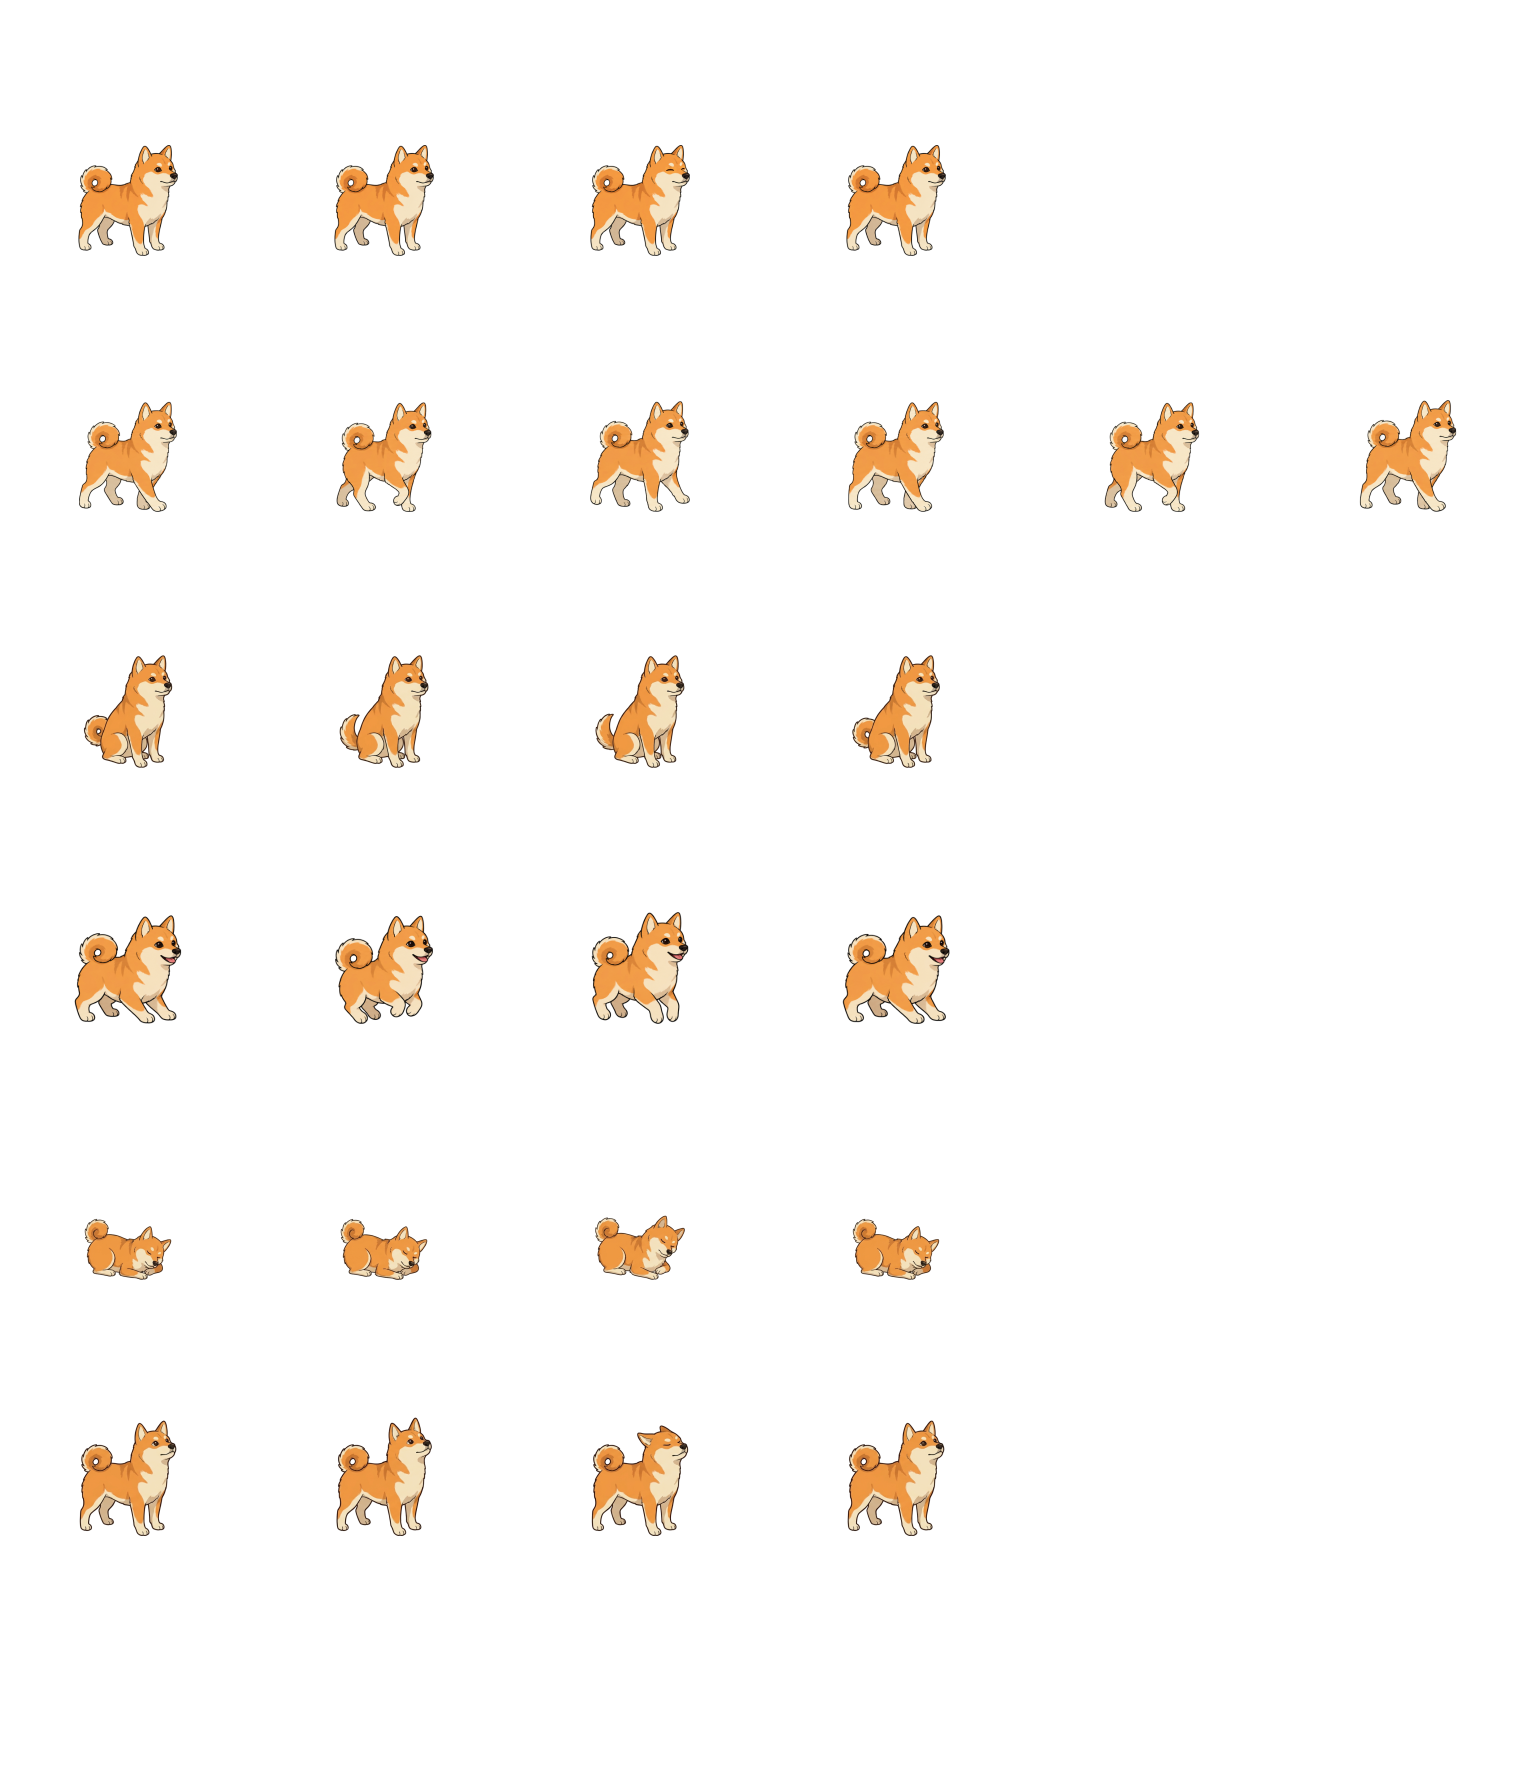
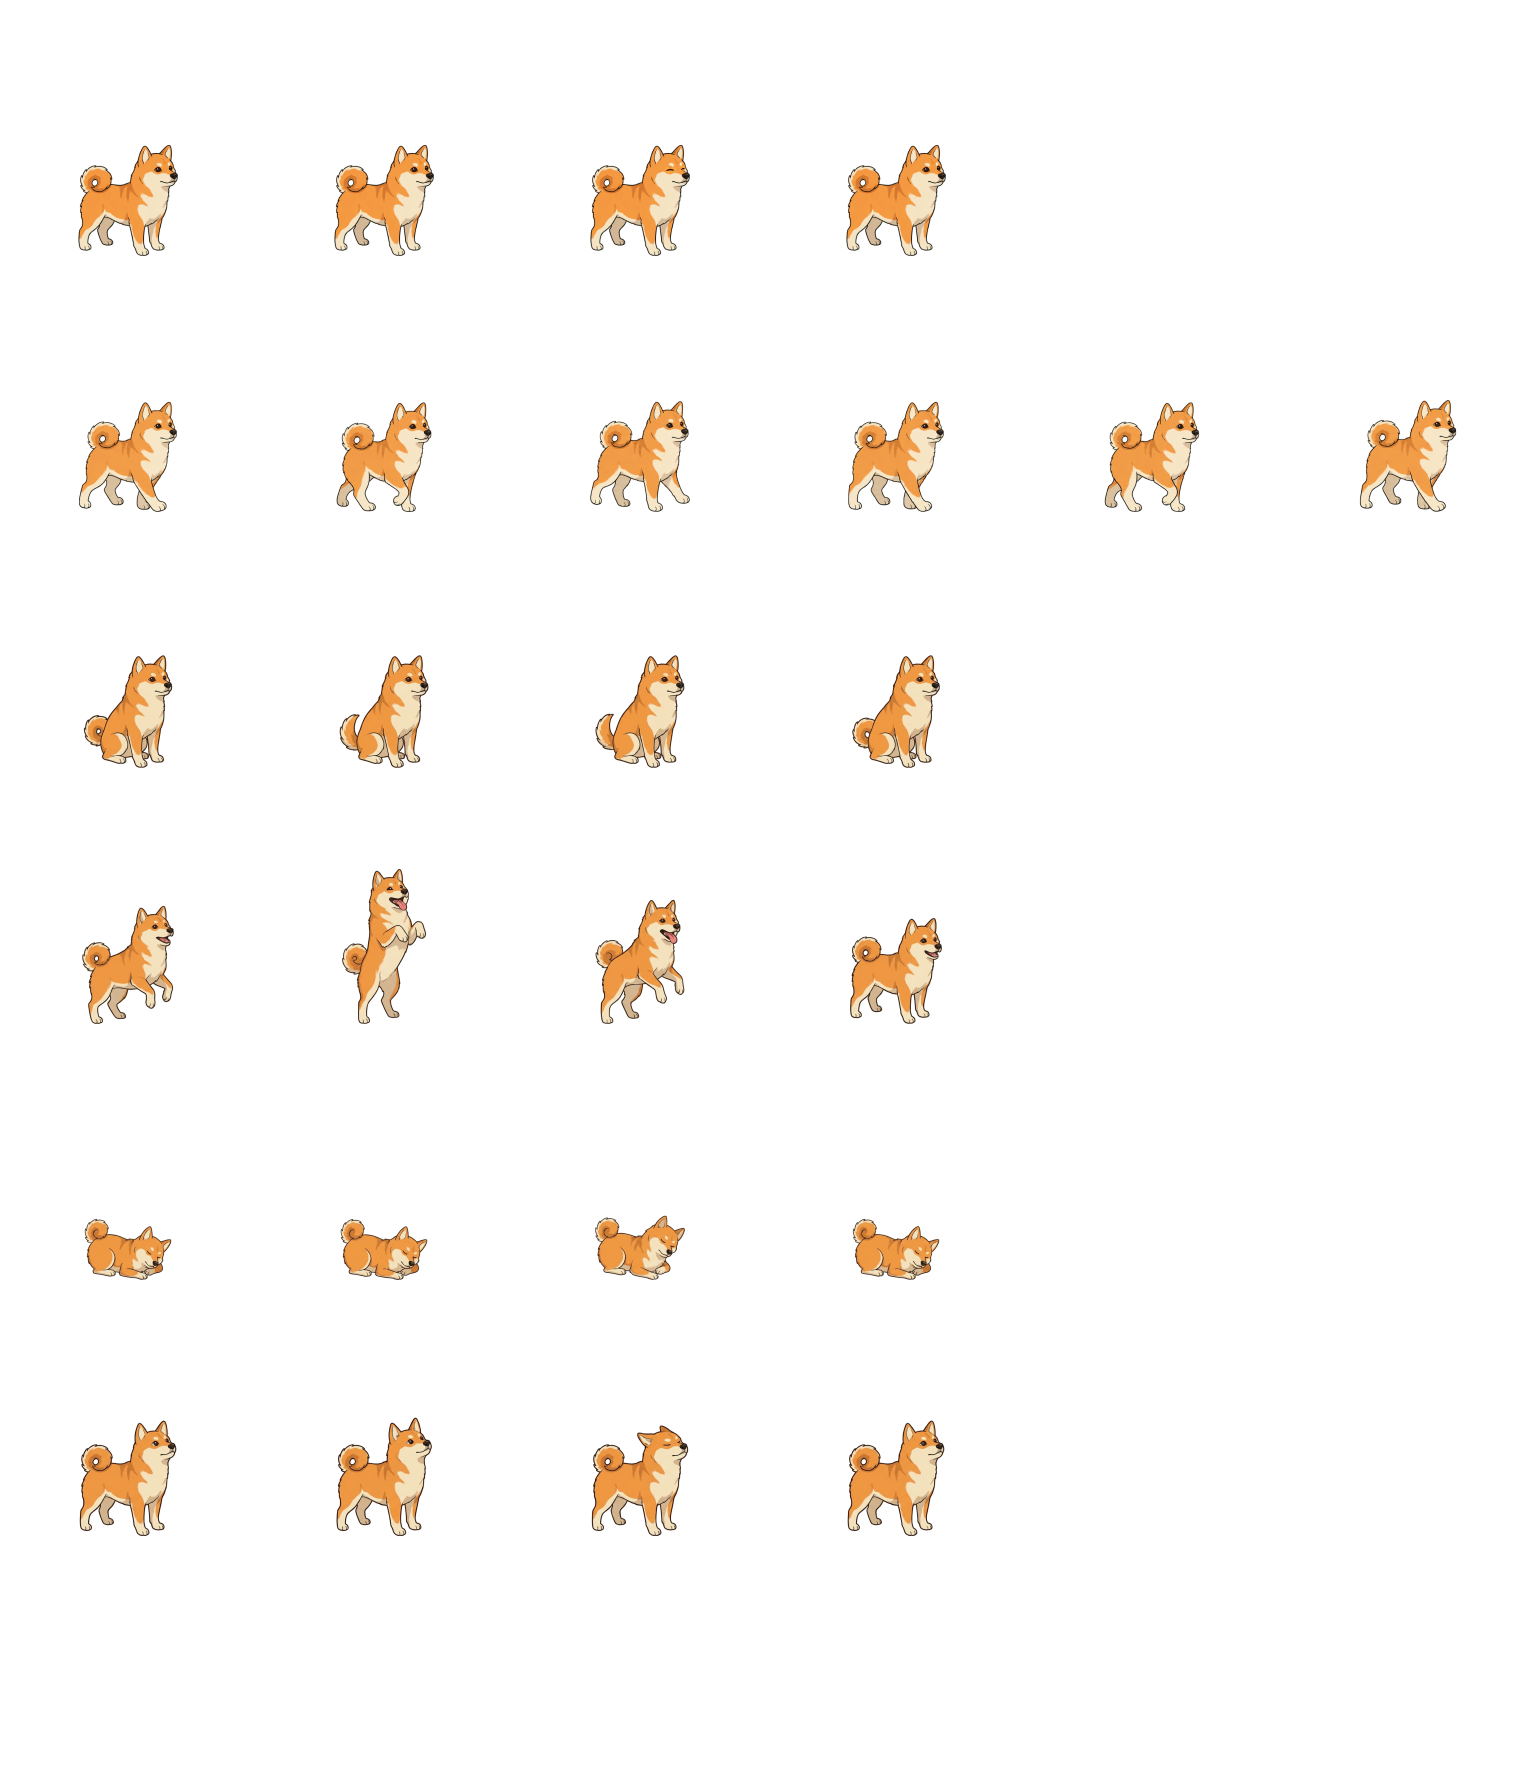
Replace the Dog react with a rear-up reaction (WORK-013K)
APPROVAL-014: the Dog rises onto its hind legs, mouth open and tongue
out, then comes back down. Row 3 (frames 18-21) of pets/dog-sheet is
rebuilt from the selected Asset-Bot candidate react-2 (seed 14004) with
the use-poses recipe and a new react-v2.config.json on top of the
2e1dcb5 sheet; rows 0-2 and 4-6 are byte-identical. One scale (0.287)
for the row keeps every frame's head within 42 +/- 4 px (the recipe now
checks per-frame source heads via head.framesPx). The react clip keeps
frames 18-21 at 8 fps and gains frameDurationsMs [125, 250, 125, 167]:
the upright pose holds two frames and three bounces fill the 2 s
reacting phase. Ledger row replaced with --layout-change (clip timing
change); not signed.

diff --git a/talvi-pet-prototype/game/tools/assets/use-poses.ts b/talvi-pet-prototype/game/tools/assets/use-poses.ts
@@ -14,7 +14,7 @@ import { decodePixels, dimensions } from './image';
 import { flags, readJson } from './common';
 import { decodeRgba, encodePng, opaqueBox, type Box, type Rgba } from './refit';
 export interface Key { backgroundMin: number; backgroundChroma: number; dilation: number; holeMinArea: number }
-export interface Pose { clip: string; row: number; source: string; sha256: string; cells: number; exclude?: [number, number][]; scale: number; head: { sourcePx: number; referencePx: number }; standing?: { referencePx: number; tolerancePx: number } }
+export interface Pose { clip: string; row: number; source: string; sha256: string; cells: number; exclude?: [number, number][]; scale: number; head: { sourcePx: number; referencePx: number; framesPx?: number[] }; standing?: { referencePx: number; tolerancePx: number } }
 export interface Config { frame: { w: number; h: number }; grid: { columns: number; rows: number }; base: { git: string; path: string; sha256: string; copyRows: number[] }; key: Key; headTolerancePx: number; poses: Pose[] }
 const sha = (b: Uint8Array) => createHash('sha256').update(b).digest('hex');
 /** JPEG bytes (the Asset-Bot candidates are JFIF data under a .png name) decoded by ffmpeg, the tool check-assets already uses. */
@@ -181,11 +181,15 @@ export function blit(src: Rgba, dst: Rgba, sx: number, sy: number, dx: number, d
     for (let y = 0; y < h; y++)
         dst.data.set(src.data.subarray(((sy + y) * src.w + sx) * 4, ((sy + y) * src.w + sx + w) * 4), ((dy + y) * dst.w + dx) * 4);
 }
-/** The brief's scale rules: head height within headTolerancePx of the reference; a standing pose's opaque height within its tolerance. */
+/** The brief's scale rules: head height within headTolerancePx of the reference (every frame's when `head.framesPx` lists
+ * per-frame source heads, e.g. react's open mouth and head tilt); a standing pose's opaque height within its tolerance. */
 export function scaleIssues(pose: Pose, tolerance: number, frameHeights: number[]): string[] {
-    const issues: string[] = [], head = pose.head.sourcePx * pose.scale;
-    if (Math.abs(head - pose.head.referencePx) > tolerance)
-        issues.push(`${pose.clip}: head ${head.toFixed(1)} px is not within ±${tolerance} of ${pose.head.referencePx}`);
+    const issues: string[] = [], heads = pose.head.framesPx ?? [pose.head.sourcePx];
+    heads.forEach((sourcePx, i) => {
+        const head = sourcePx * pose.scale, label = pose.head.framesPx ? `${pose.clip} frame ${i}` : pose.clip;
+        if (Math.abs(head - pose.head.referencePx) > tolerance)
+            issues.push(`${label}: head ${head.toFixed(1)} px is not within ±${tolerance} of ${pose.head.referencePx}`);
+    });
     if (pose.standing && Math.abs(frameHeights[0] - pose.standing.referencePx) > pose.standing.tolerancePx)
         issues.push(`${pose.clip}: standing height ${frameHeights[0]} px is not within ±${pose.standing.tolerancePx} of ${pose.standing.referencePx}`);
     return issues;
@@ -207,7 +211,8 @@ export function buildRow(pose: Pose, config: Config, sheet: Rgba, workflowRoot: 
     if (issues.length)
         throw new Error(issues.join('; '));
     return { clip: pose.clip, row: pose.row, source: pose.source, sourceSha256: pose.sha256, exclude: pose.exclude ?? [], holesKeyed: holes, scale: pose.scale,
-        headPx: { source: pose.head.sourcePx, scaled: Math.round(pose.head.sourcePx * pose.scale * 10) / 10, reference: pose.head.referencePx }, frames };
+        headPx: { source: pose.head.sourcePx, scaled: Math.round(pose.head.sourcePx * pose.scale * 10) / 10, reference: pose.head.referencePx,
+            ...(pose.head.framesPx ? { framesSource: pose.head.framesPx, framesScaled: pose.head.framesPx.map(px => Math.round(px * pose.scale * 10) / 10) } : {}) }, frames };
 }
 /** Whole sheet: committed base rows copied, pose rows built, every other cell transparent. */
 export function buildSheet(config: Config, gameRoot: string): { png: Buffer; report: Record<string, unknown> } {

diff --git a/talvi-pet-prototype/game/tests/content/use-poses.test.ts b/talvi-pet-prototype/game/tests/content/use-poses.test.ts
@@ -73,4 +73,10 @@ describe('use-poses scale rules (head height ±tolerance, standing height)', () 
         expect(scaleIssues(pose(0.42, true), 4, [117])).toEqual([]);
         expect(scaleIssues(pose(0.42, true), 4, [118])[0]).toMatch(/standing height 118 px/);
     });
+    it('checks every frame\'s head when per-frame source heads are configured (react: open mouth, head tilt)', () => {
+        const react = (scale: number): Pose => ({ ...pose(scale), clip: 'react', row: 3, head: { sourcePx: 146.5, referencePx: 42, framesPx: [141, 146, 153, 146] } });
+        expect(scaleIssues(react(0.287), 4, [])).toEqual([]);
+        expect(scaleIssues(react(0.305), 4, [])).toEqual(['react frame 2: head 46.7 px is not within ±4 of 42']);
+        expect(scaleIssues(react(0.265), 4, [])).toEqual(['react frame 0: head 37.4 px is not within ±4 of 42']);
+    });
 });

diff --git a/talvi-pet-prototype/game/README.md b/talvi-pet-prototype/game/README.md
@@ -46,7 +46,7 @@ With the flag, both exit 0 on the current tree (`--strict` makes warnings exit 2
 - `tools/assets/export-refinements.mjs --project <game-root> --config game/tools/assets/refinements-v1.config.json --out <staging-dir>`: reproduces the room and furniture exports from their sources. Run it from the game root.
   - `room-v2.config.json` reproduces the current `rooms/dog-room` (room candidate 3). Its room uses a full-frame uniform fit (`bandTop: 0`, `bandHeight: 1080`: the whole source is scaled to the 1920 width and centred, no phone-band fit). `sourceSubdirectory` (default `sources`) names the folder under `sourceDirectory`; `""` reads `sourceDirectory` itself. An item's optional `sourceSha256` makes the export refuse a source with different bytes.
 - `npx tsx tools/assets/refit.ts --config tools/assets/refit-half-v1.config.json --out <staging-dir>`: deterministic re-fit (pure Node, no browser). Reads each source from a Git revision and checks its SHA-256, scales every frame's artwork uniformly about the frame's bottom centre by `fitFraction` of the reference frame's opaque height (rounded down to a whole pixel), keeps the canvas and frame grid, and writes PNGs plus `refit-report.json`. WORK-013H used it for the half-size Dog sheet and bed.
-- `npx tsx tools/assets/use-poses.ts --config tools/assets/use-poses-v1.config.json --out <staging-dir>`: deterministic use-pose rows for the 6×7 pet sheet (pure Node; ffmpeg decodes JPEG candidates). Copies the config's `base.copyRows` byte for byte from a Git revision of the sheet, keys each selected candidate's white background (the `export-refinements.mjs` sprite key plus enclosed white holes of at least `holeMinArea` px; `exclude` column ranges such as cell dividers are blanked first), splits the poses into equal cells by connected component, and scales each row by its head-height `scale` into 256×256 cells about the base centre. It refuses a source whose SHA-256 differs, a head height outside `headTolerancePx`, or a configured standing height outside its tolerance. WORK-013J used it for `use-sit`, `use-lie` and `use-look`. Ledger the result with `asset:ledger -- replace ... --layout-change`, which lets a replacement change `px` and `clips` (from `--row`) while type, frame and URL stay fixed.
+- `npx tsx tools/assets/use-poses.ts --config tools/assets/use-poses-v1.config.json --out <staging-dir>`: deterministic use-pose rows for the 6×7 pet sheet (pure Node; ffmpeg decodes JPEG candidates). Copies the config's `base.copyRows` byte for byte from a Git revision of the sheet, keys each selected candidate's white background (the `export-refinements.mjs` sprite key plus enclosed white holes of at least `holeMinArea` px; `exclude` column ranges such as cell dividers are blanked first), splits the poses into equal cells by connected component, and scales each row by its head-height `scale` into 256×256 cells about the base centre. It refuses a source whose SHA-256 differs, a head height outside `headTolerancePx`, or a configured standing height outside its tolerance. WORK-013J used it for `use-sit`, `use-lie` and `use-look`. `react-v2.config.json` (WORK-013K) rebuilds only row 3 `react` (the rear-up) on top of the Git 2e1dcb5 sheet; its `head.framesPx` lists a source head height per frame, and the recipe then checks every frame's scaled head against the tolerance (open mouths and head tilt vary it within one row). Ledger the result with `asset:ledger -- replace ... --layout-change`, which lets a replacement change `px` and `clips` (from `--row`) while type, frame and URL stay fixed.
 - `tools/panels.html` (`/tools/panels.html` on the dev server): UI panel and state gallery, plus a contact sheet of every manifest row.
 - `tools/asset-trial.html` (`/tools/asset-trial.html?height=1080&guides=1&clip=idle`): inspection harness for the Dog sheet, tags, portrait and clue on hash-verified loads. `clip` takes any Dog clip (`idle`, `walk`, `use-sit`, `react`, `use-lie`, `use-look`); `?at=<slotId>` stands the Dog on that slot's pet anchor with its facing, and room mode then still draws that slot's charm.
 - Exporters write only to the output path you give them. Add the result to the registry with `asset:ledger`, then run `check:assets`.
